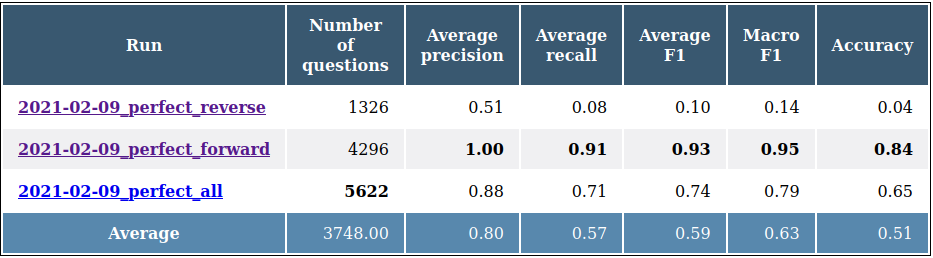
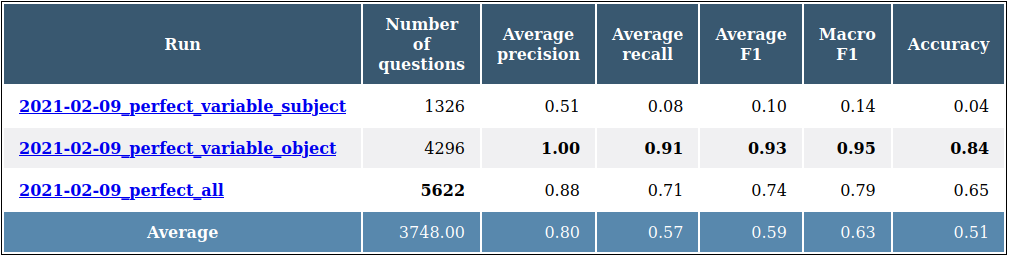
Rename forward/reverse
Use variable_object and variable_subject instead.

diff --git a/content/post/project-aqqu-wikidata.md b/content/post/project-aqqu-wikidata.md
@@ -220,12 +220,12 @@ Since the dataset contains both the gold SPARQL queries and the gold answers, we
 
 ![evaluation results perfect](/img/project_aqqu-wikidata/screenshot_evaluation_results_perfect.png)
 
-(The run with the word 'forward' contains only the queries with the ERT pattern and the word 'reverse' contains only the queries with the TRE pattern.) We see that the results on the two subset are very different (compare average F1 of 10% vs 93%). We know of two problems leading to a lower score for the TRE queries:
+The run called 'variable_object' contains only the queries with the ERT pattern (meaning that the object is the query variable) and the run called 'variable_subject' contains only the queries with the TRE pattern (meaning that the subject is the query variable). We see that the results on the two subset are very different (compare average F1 of 10% vs 93%). We know of two problems leading to a lower score for the TRE queries:
 
-1. Many of the TRE questions ask for examples of a group, for example: 'Name a baseball player'. The gold answer is exactly one baseball player (the gold answer set has length one for every question in the dataset). The result to the gold SPARQL query contains all the 32,000 baseball players in Wikidata. This leads to a high precision and a very low recall.
+1. Many of the TRE questions ask for examples of a group, for example: 'Name a baseball player'. The gold answer is exactly one baseball player. (The gold answer set has length one for every question in the dataset.) The result to the gold SPARQL query contains all the 32,000 baseball players in Wikidata. This leads to a relatively high precision and a very low recall.
 1. Every candidate SPARQL query that Aqqu-Wikidata sends to its SPARQL backend currently uses a limit of 300 (meaning the result set is cut off at length 300). That means that in the baseball player example, we might even get a precision of zero because the gold answer baseball player is not part of the 300 returned baseball players. This is of course not a problem of the dataset but of our program but it is questionable whether it would be better overall to enable result sets of length 40,000 (and even that limit would be too low for some queries).
 
-Because of the mentioned problems with the queries using the TRE pattern in the dataset, we decided to only use the ERT subset of the dataset.
+Because of the mentioned problems with the queries using the TRE pattern in the dataset, we decided to only use the ERT subset of the dataset. The run called 'variable_object' gives us the best possible results we could theoretically achieve with our pipeline.
 
 ### Evaluation results {#evaluation-results}
 
